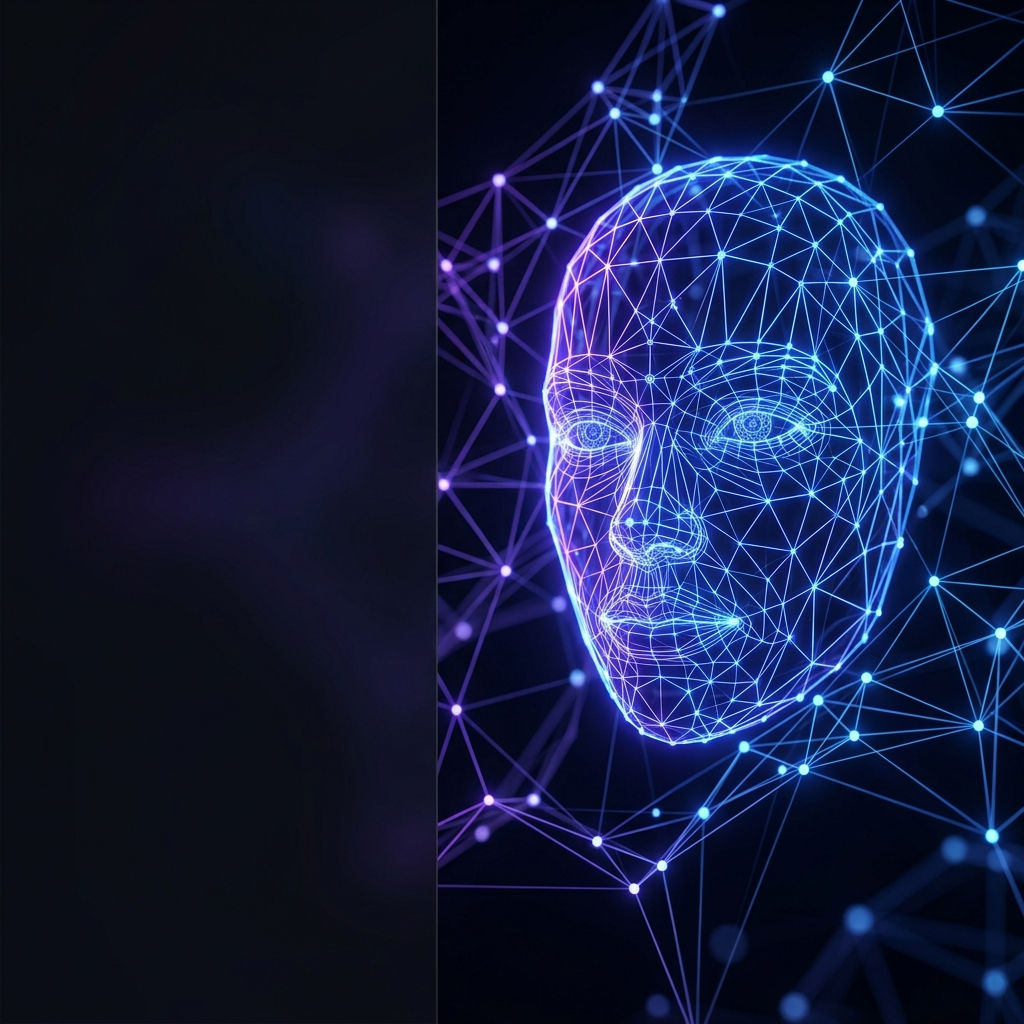
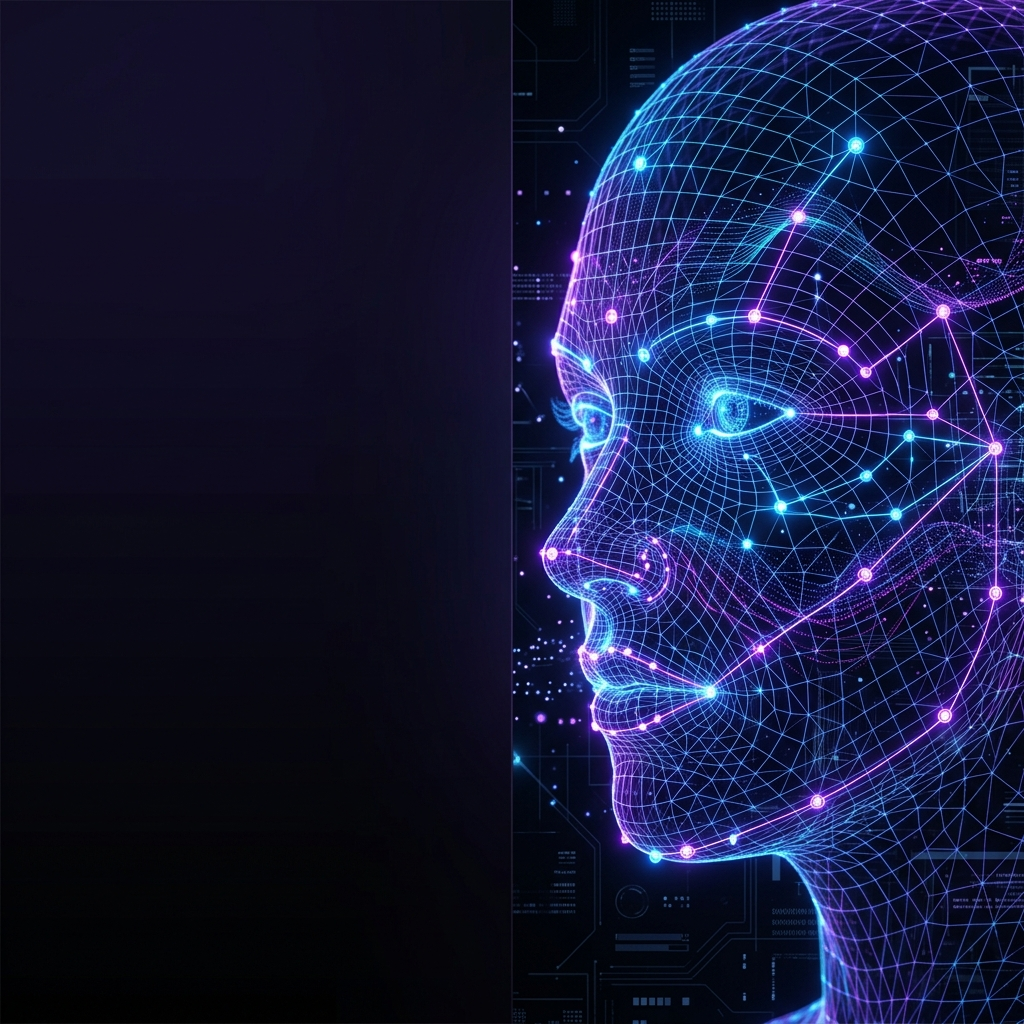
Optimize project card backgrounds and update Areas of Expertise content

diff --git a/client/components/features.tsx b/client/components/features.tsx
@@ -74,24 +74,10 @@ export function Features() {
           className="text-center"
         >
           <h2 className="text-4xl md:text-7xl font-bold tracking-tighter mb-8 bg-clip-text text-transparent bg-gradient-to-b from-zinc-900 via-zinc-700 to-zinc-500 dark:from-white dark:via-zinc-200 dark:to-zinc-500">
-            Areas of Expertise.
+            Areas of Expertise
           </h2>
           <p className="text-xl md:text-3xl text-zinc-600 dark:text-zinc-400 leading-relaxed max-w-4xl mx-auto">
-            <span className="font-semibold text-zinc-900 dark:text-zinc-100">AI and Data Science student at MIT.</span>
-            <br />
-            Specializing in{" "}
-            <span className="bg-clip-text text-transparent bg-gradient-to-r from-blue-600 to-purple-600 dark:from-blue-400 dark:to-purple-400">
-              Generative AI
-            </span>
-            ,{" "}
-            <span className="bg-clip-text text-transparent bg-gradient-to-r from-emerald-600 to-cyan-600 dark:from-emerald-400 dark:to-cyan-400">
-              Data Analytics
-            </span>
-            , and{" "}
-            <span className="bg-clip-text text-transparent bg-gradient-to-r from-orange-600 to-red-600 dark:from-orange-400 dark:to-red-400">
-              Computer Vision
-            </span>
-            .
+            Specializing in Machine Learning, Generative AI, Data Analytics, and Computer Vision. Passionate about building intelligent systems and data-driven solutions.
           </p>
         </motion.div>
       </div>

diff --git a/client/components/ui/project-bento-grid.tsx b/client/components/ui/project-bento-grid.tsx
@@ -118,7 +118,7 @@ function BentoGridItem({ item }: { item: BentoItem }) {
                         alt={item.title}
                         className="w-full h-full object-cover transition-transform duration-500 group-hover:scale-105"
                     />
-                    <div className="absolute inset-0 bg-black/60 group-hover:bg-black/70 transition-colors duration-300" />
+                    <div className="absolute inset-0 bg-gradient-to-r from-black/85 via-black/45 to-black/20 group-hover:from-black/90 group-hover:via-black/55 group-hover:to-black/30 transition-all duration-300" />
                 </div>
             )}
 